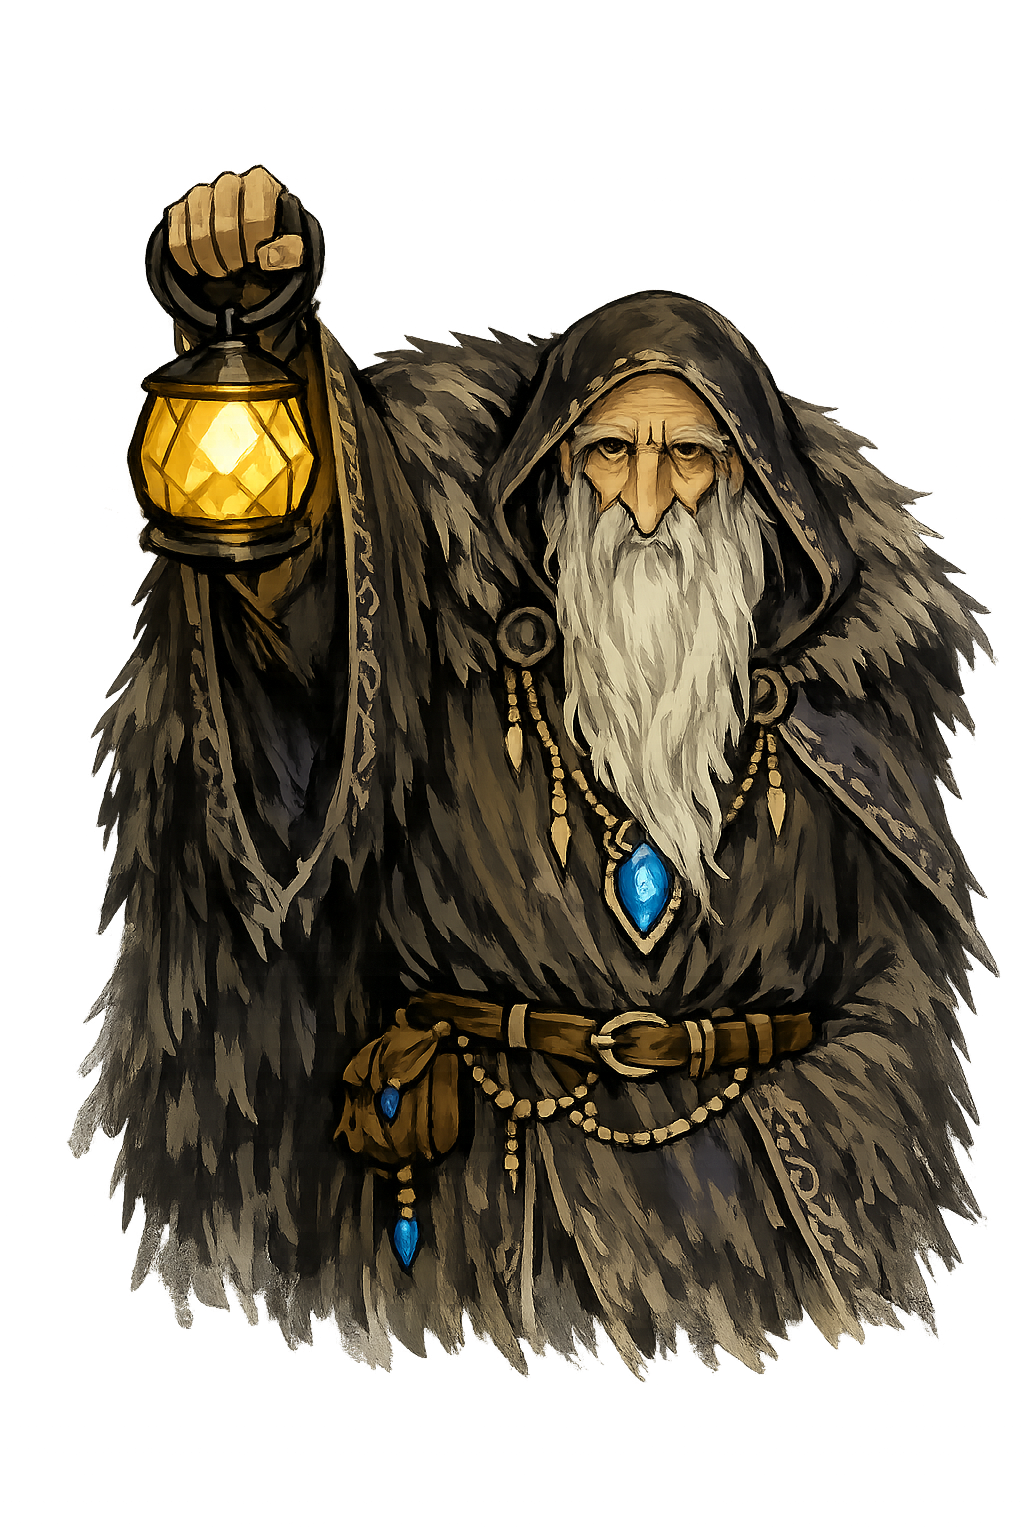
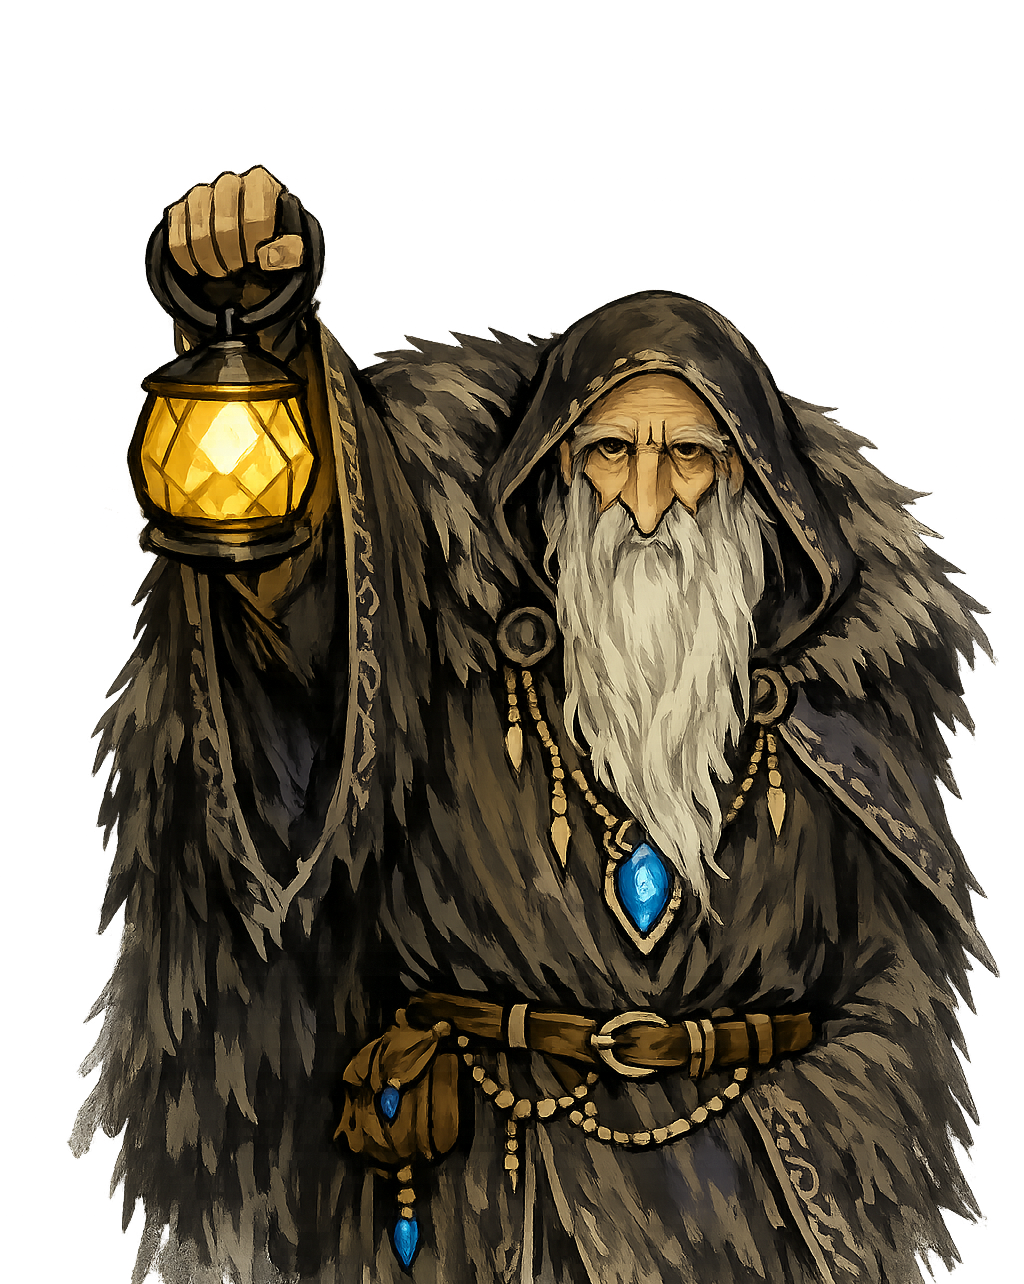
Al fin, anciano y pista correctos!

diff --git a/Style.css b/Style.css
@@ -610,18 +610,20 @@ más estético*/
 .oculto{
     position: fixed;
     left: 0.7em;
-    bottom:2em;
+    bottom:0;
     display: none;
     z-index: 9997;
-    align-items: end;
+    display: flex;
+    align-items: flex-end;
     gap: 1em;
 }
 
 .oculto img{
-    height: 40em;
+    height: 35em;
     width: auto;
     display: block;
     filter: drop-shadow(0 0 60px rgba(46, 46, 16, 0.747));
+    
 }
 
 
@@ -633,4 +635,5 @@ más estético*/
     color: rgba(214, 223, 220);
     padding: 2em;
     right:20em;
+    margin-bottom: 2em;
 }
